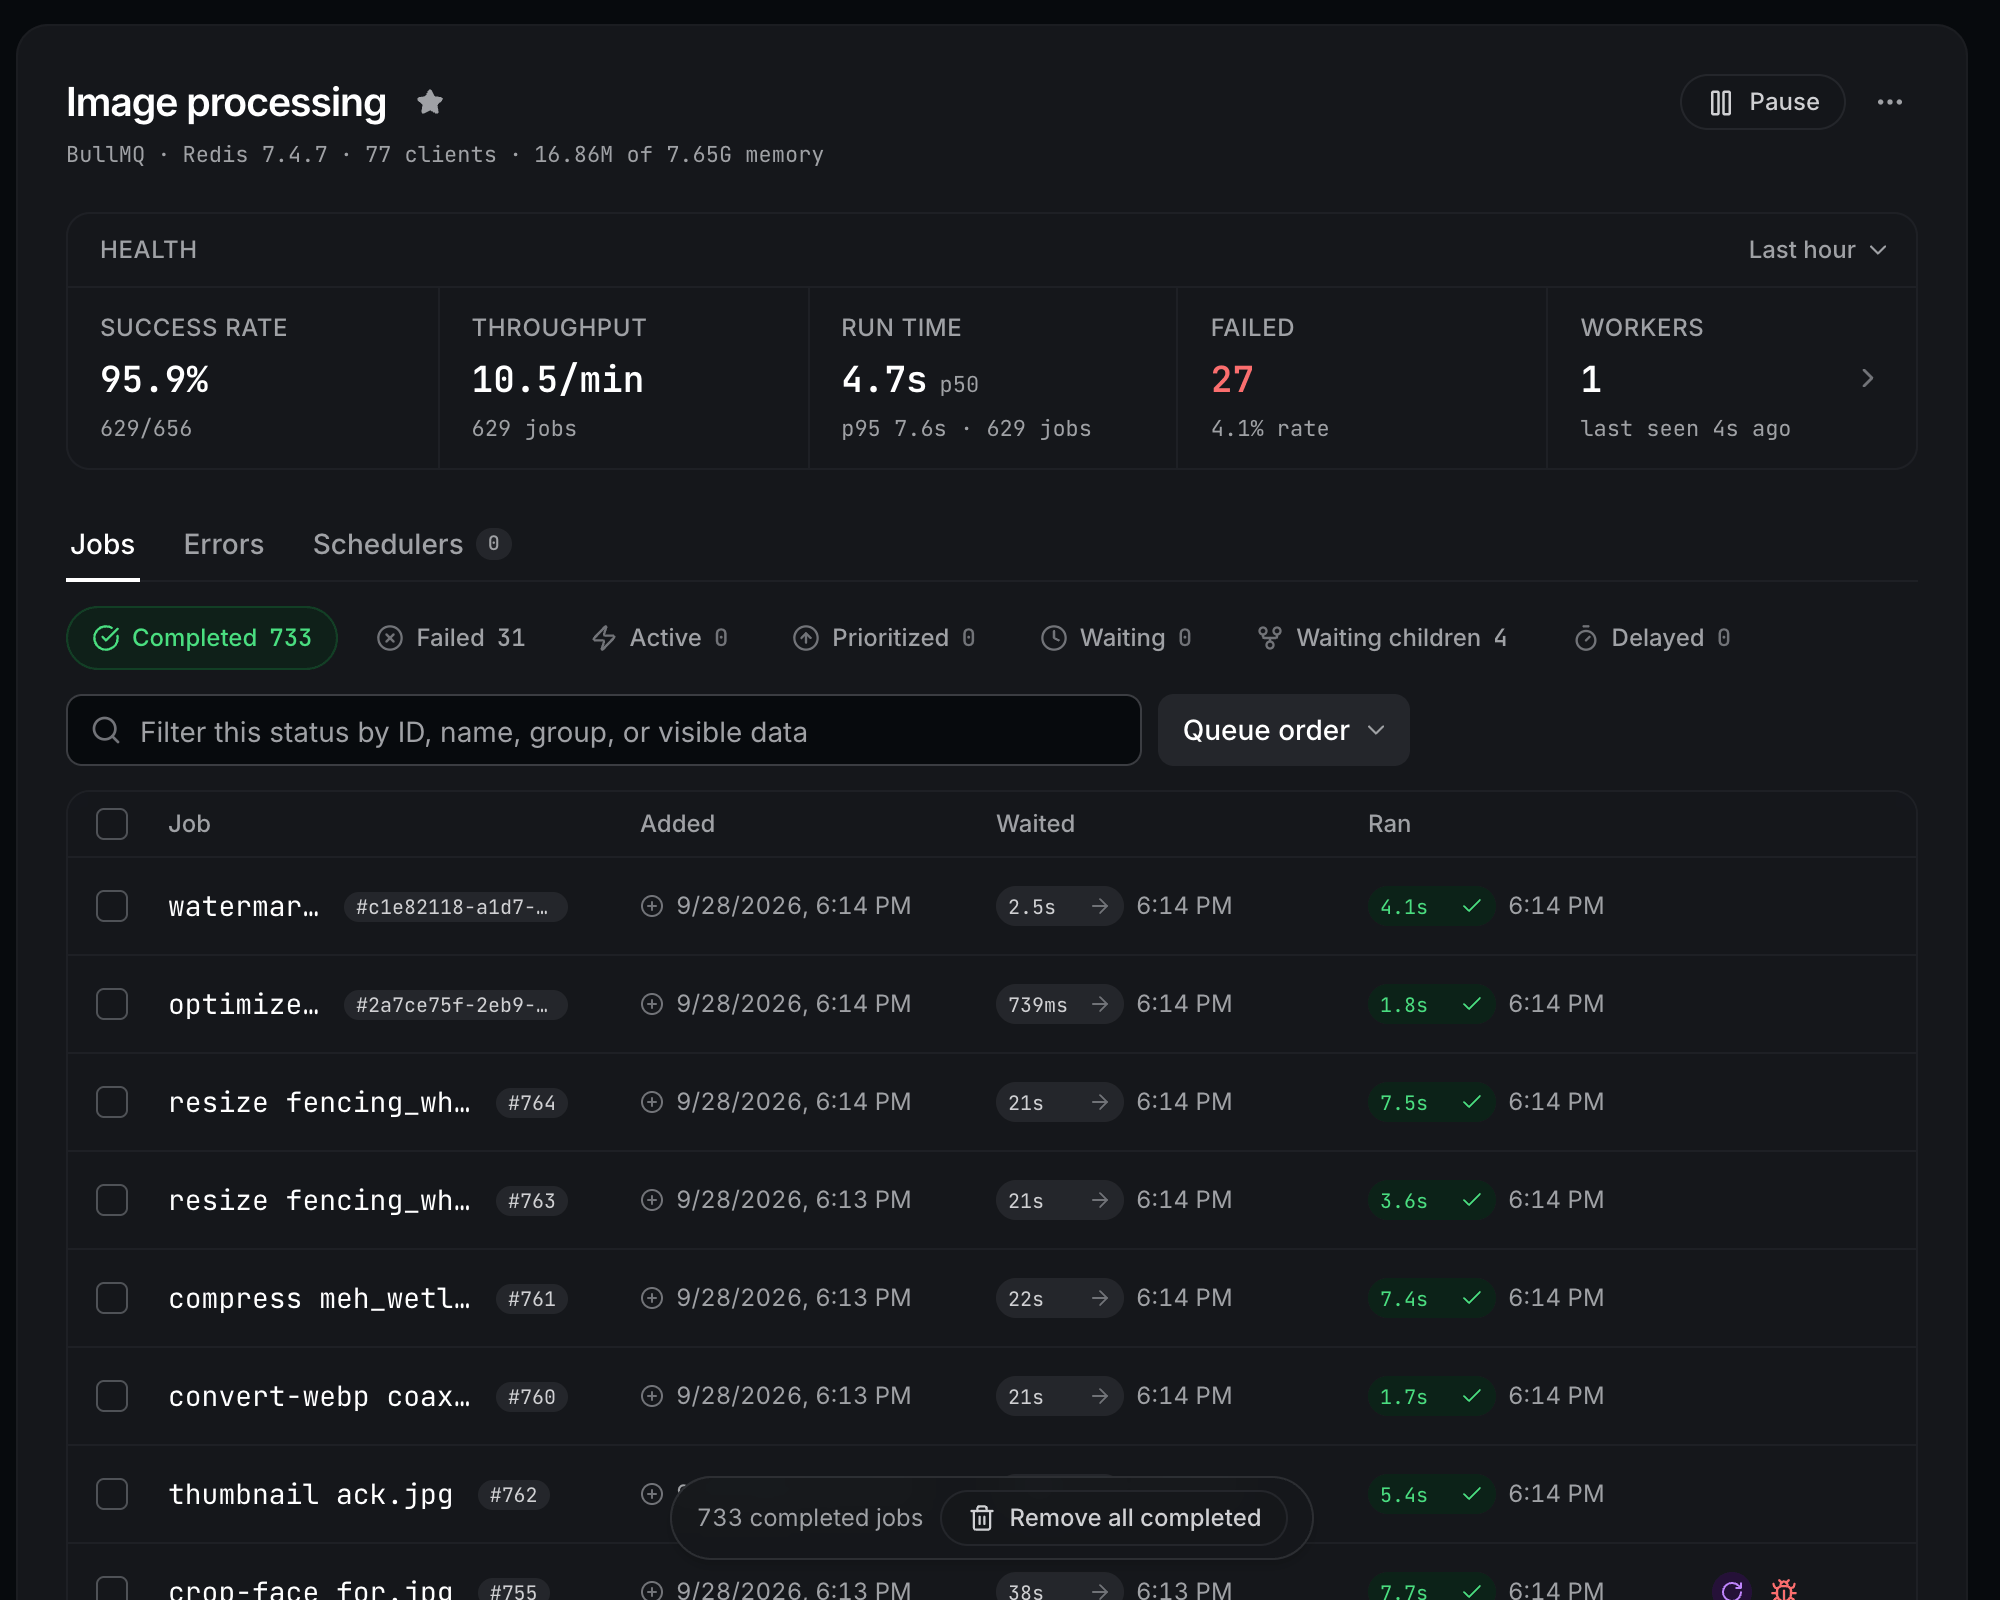
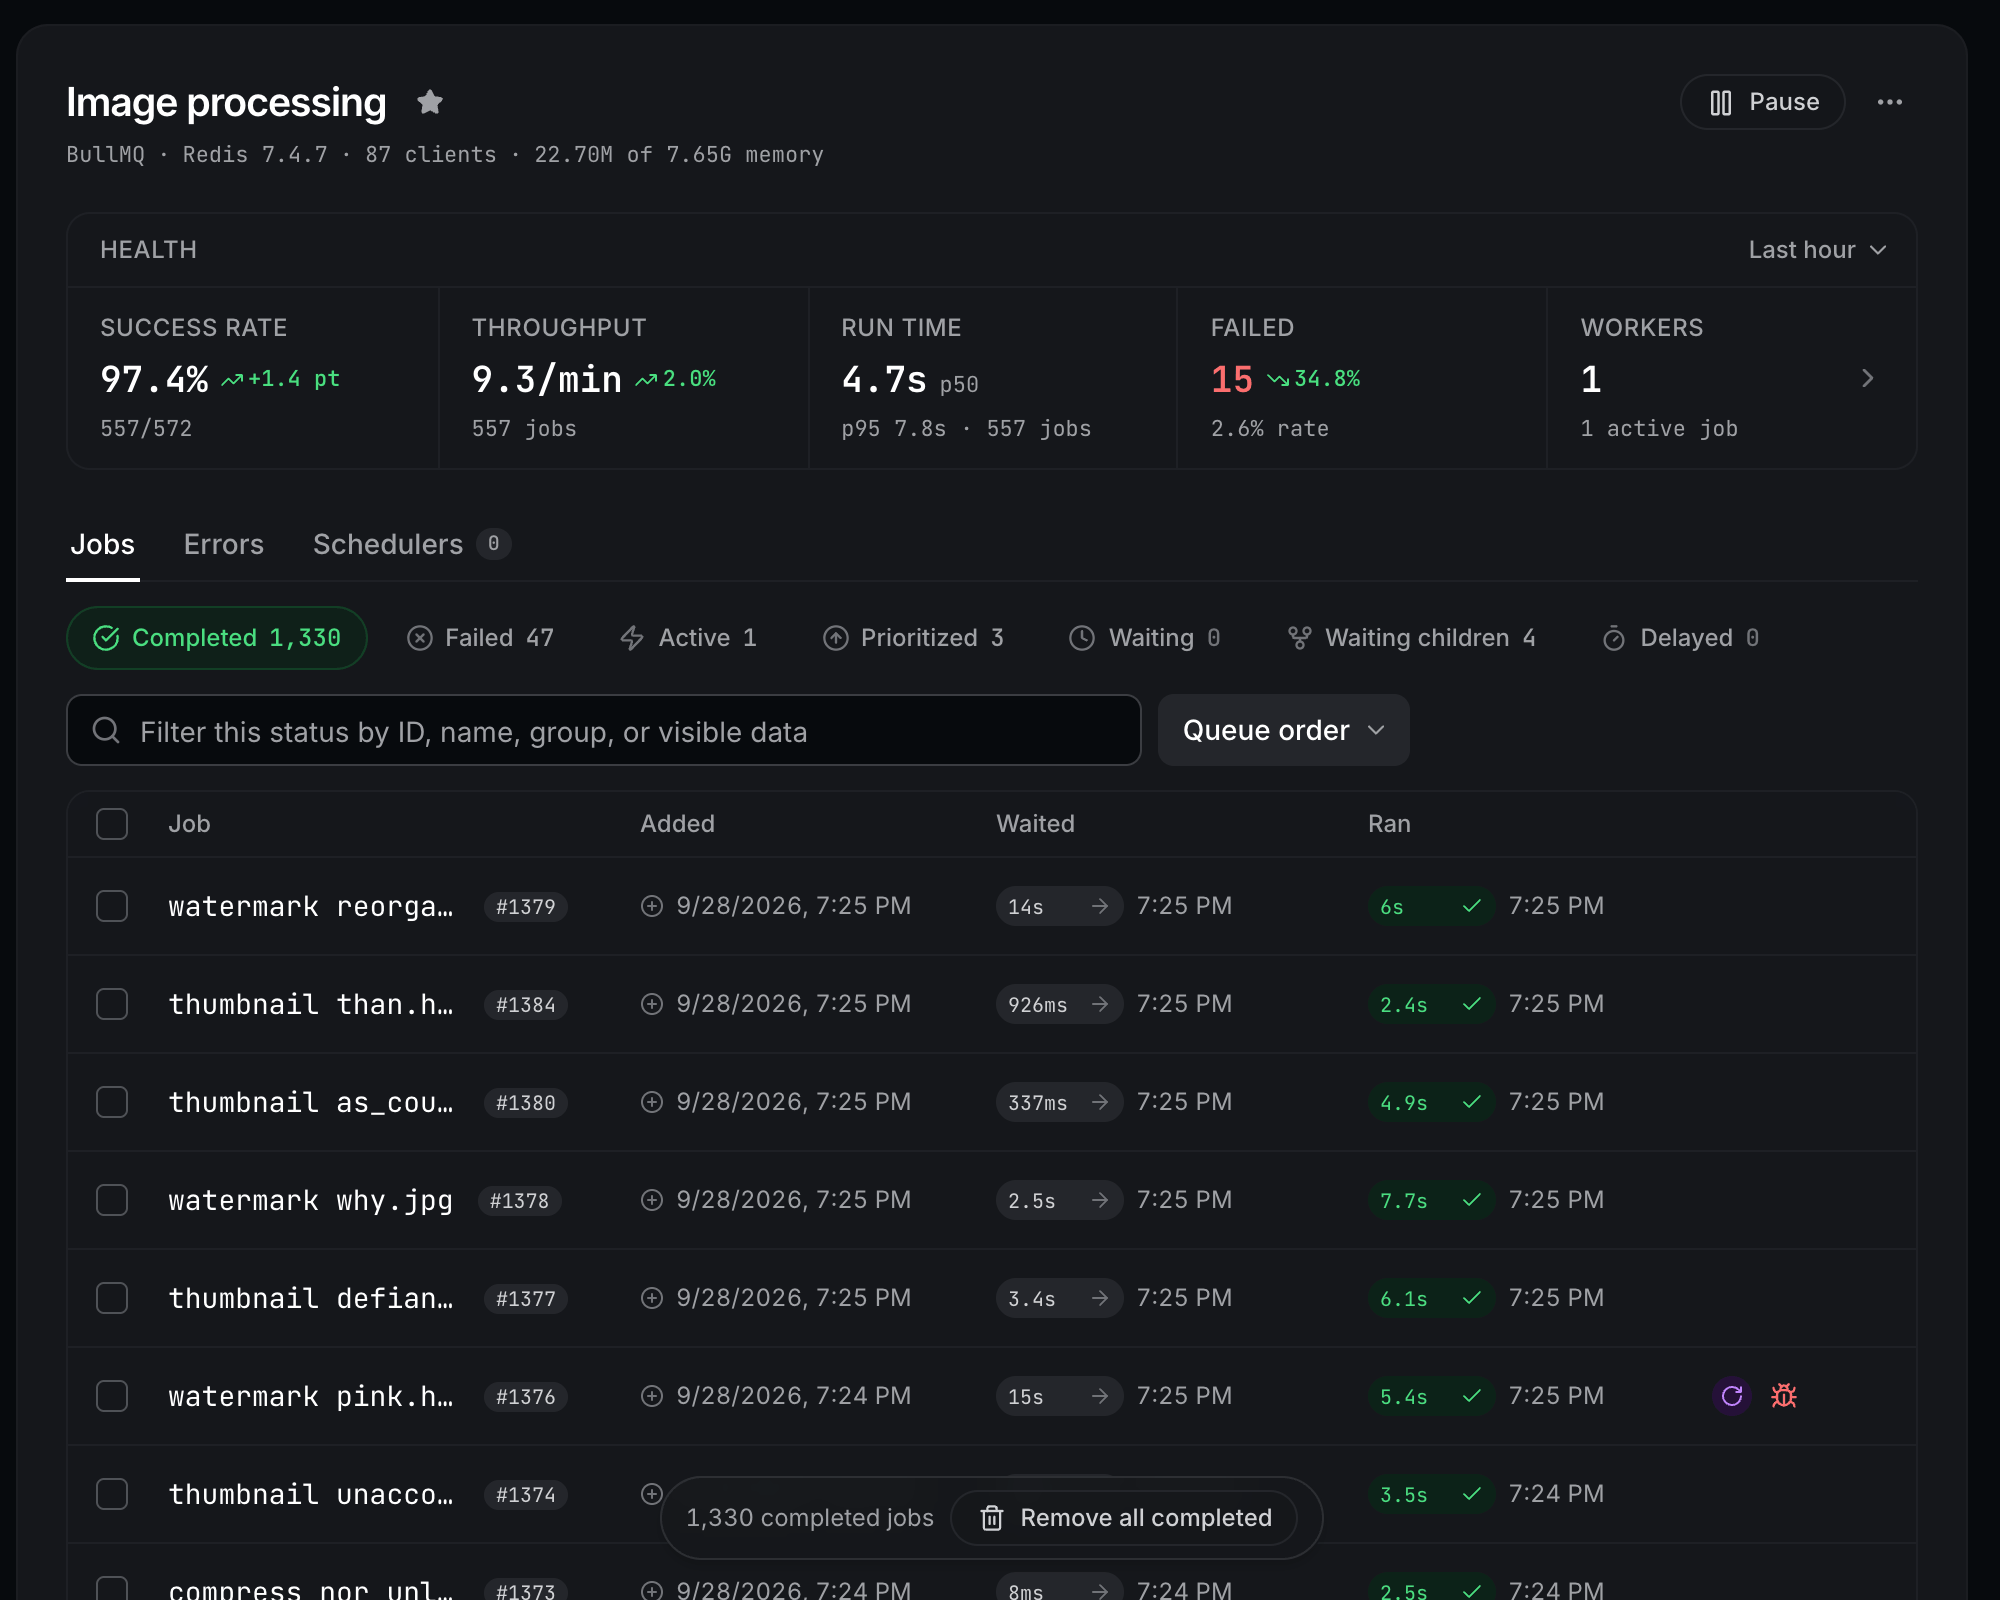
Retake the README tiles that show the Workers cell
The queue, Errors and bulk tiles now read the Workers cell's new copy
("1 active job" / "idle") instead of "last seen". The capture script no
longer needs the traffic stopped for them.

diff --git a/packages/dev/utils/screenshots.ts b/packages/dev/utils/screenshots.ts
@@ -11,9 +11,7 @@
  * 256-colour PNGs to assets/screenshots, with the hero composed around the
  * app in assets/screenshots/hero.html. Needs Google Chrome and ffmpeg.
  *
- * Name shots to retake only those; "app" is the hero. A busy worker reads
- * "last seen" minutes ago on the queue, errors and bulk shots, so take those
- * once the traffic has stopped and the image queue has drained.
+ * Name shots to retake only those; "app" is the hero.
  */
 import { execFile, spawn } from "node:child_process";
 import { mkdtemp, readFile, rm, writeFile } from "node:fs/promises";
